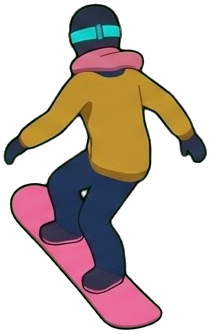
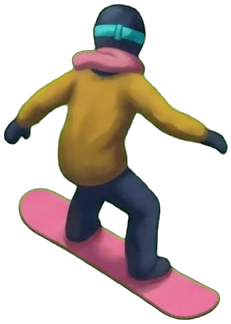
Fahrer-Posen im gemalten Stil
Geradeaus, Rechtskurve und Sprung aus dem neuen Bogen; Linkskurve ist
die gespiegelte Rechtskurve, Sturz bleibt aus dem ersten Bogen.

Claude-Session: https://claude.ai/code/session_01K9avBE44h9jo1J6jcVak2J

diff --git a/index.html b/index.html
@@ -183,7 +183,7 @@ body {
     return t;
   }
   // aspect ratios (w / h) of the cut-out sprites
-  const ASPECT = { 'rider-straight': 175 / 267, 'rider-left': 211 / 334, 'rider-right': 232 / 324, 'rider-air': 268 / 315, 'rider-crash': 419 / 270,
+  const ASPECT = { 'rider-straight': 173 / 266, 'rider-left': 231 / 324, 'rider-right': 231 / 324, 'rider-air': 268 / 315, 'rider-crash': 419 / 270,
     'tree-tall': 232 / 393, 'tree-round': 244 / 318, rock: 360 / 341, log: 381 / 242, snowman: 226 / 361, coin: 126 / 128, flag: 118 / 256 };
   const spriteMats = [];
   function spriteMat(name) {
@@ -196,7 +196,7 @@ body {
   const riderTex = {};
   for (const n of ['rider-straight', 'rider-left', 'rider-right', 'rider-air', 'rider-crash']) riderTex[n] = tex(n + '.png');
   // sprite heights in metres, all poses share one pixel scale (about 162 px per metre)
-  const RIDER_H = { 'rider-straight': 1.65, 'rider-left': 2.06, 'rider-right': 2.0, 'rider-air': 1.95, 'rider-crash': 1.4 };
+  const RIDER_H = { 'rider-straight': 1.65, 'rider-left': 2.0, 'rider-right': 2.0, 'rider-air': 1.95, 'rider-crash': 1.4 };
 
   // painted sky + mountains: two camera-locked planes that cross-fade between times of day
   const SKY_AR = 1584 / 672;
